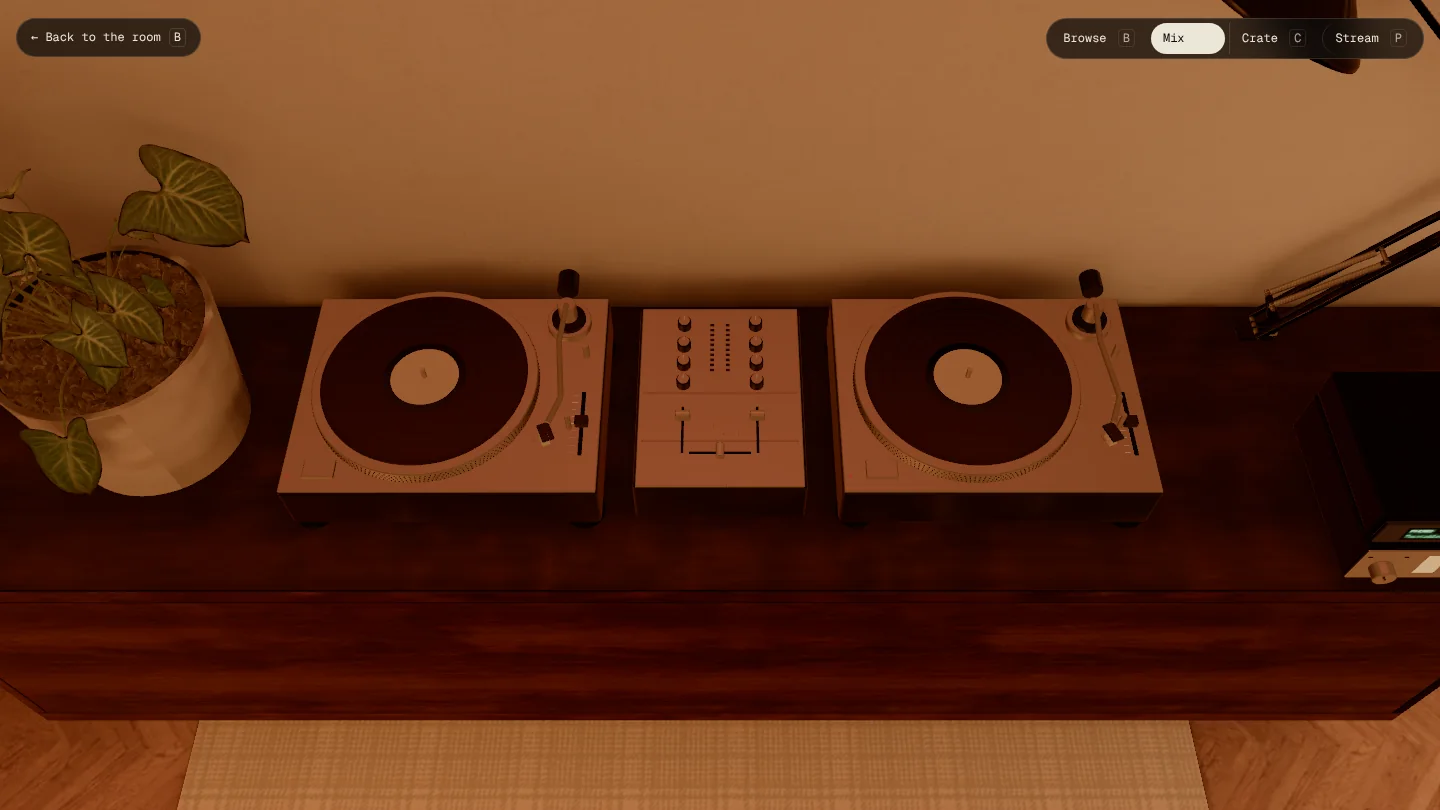
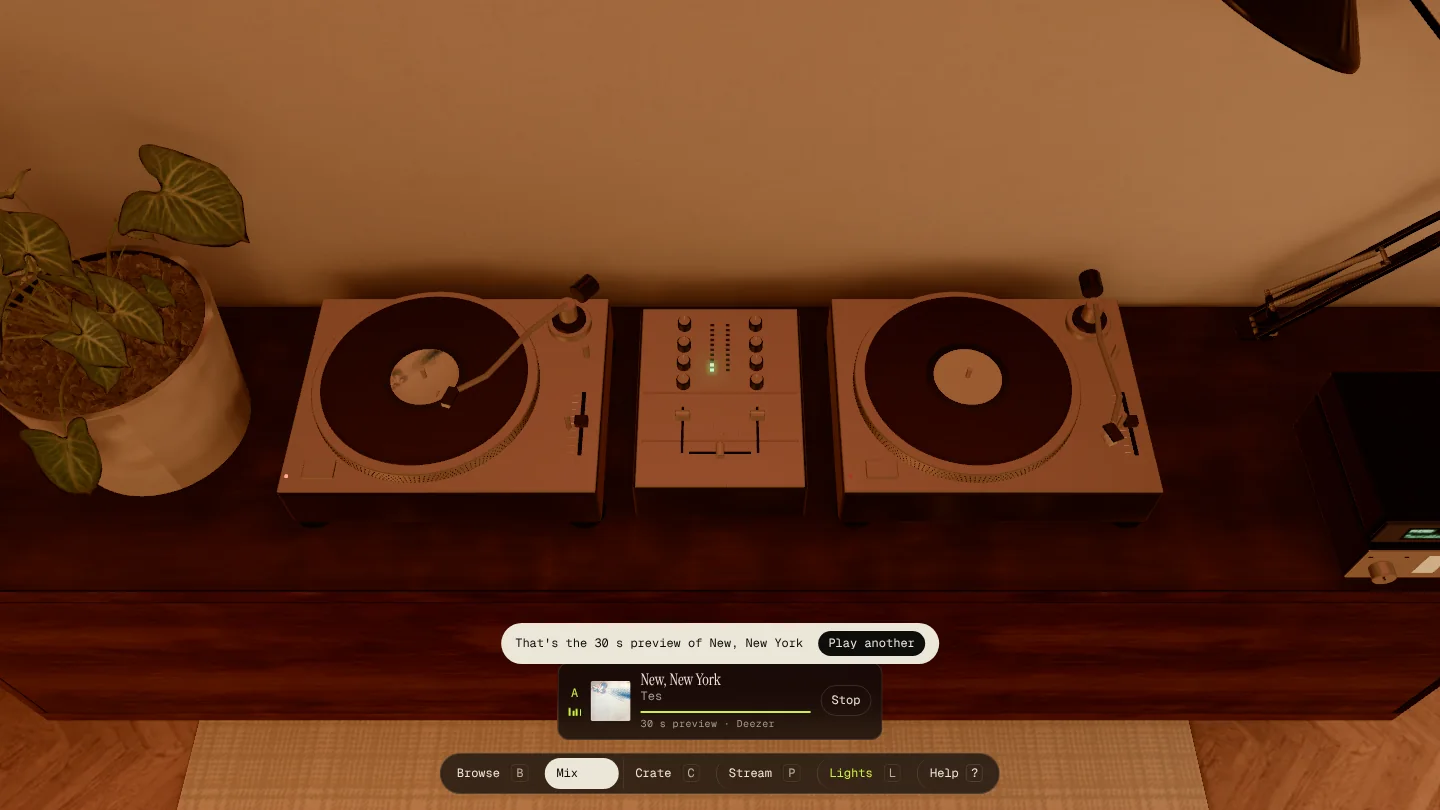
Listening Room post: screenshots with the new bottom control bar
Claude-Session: https://claude.ai/code/session_01LommHjWzrAy5NjnEbuJJz3

diff --git a/writing/listening-room.html b/writing/listening-room.html
@@ -156,7 +156,7 @@
             <figure class="post-figure">
                 <div class="grid-3">
                     <div class="tile"><img src="/images/writing/listening-room/ui-crate.webp" width="1440" height="810" alt="The crate panel open on the left, listing records from the collection with cover art, a play button to start each one straight away, and buttons to load it onto deck A or B." loading="lazy"><span class="tag">The crate</span></div>
-                    <div class="tile"><img src="/images/writing/listening-room/ui-mix.webp" width="1440" height="810" alt="Mix mode: the camera locked above the two turntables and the mixer." loading="lazy"><span class="tag">Mix mode</span></div>
+                    <div class="tile"><img src="/images/writing/listening-room/ui-mix.webp" width="1440" height="810" alt="Mix mode: the camera locked above the two turntables and the mixer, with the control bar along the bottom." loading="lazy"><span class="tag">Mix mode</span></div>
                     <div class="tile"><img src="/images/writing/listening-room/ui-streamer.webp" width="1440" height="810" alt="The Streamer panel with a list of classic SoundCloud mixes." loading="lazy"><span class="tag">The streamer</span></div>
                 </div>
                 <figcaption>Dig the crate, mix on the decks, or put on a classic mix and leave it running.</figcaption>
@@ -345,7 +345,7 @@ vec3 mixLightmaps(vec2 uv) {
                 <li><strong>The good stuff stays.</strong> Lamps, record sheets and the streamer all work, and so do the decks and scratching. Mix mode just tells you it's best on a big screen, "but go on, have a go".</li>
             </ul>
             <figure class="post-figure">
-                <img src="/images/writing/listening-room/phone-views.webp" width="1600" height="490" alt="Five phone screenshots in landscape (the chair, the decks, the records, the window and the art, each with a viewpoint switcher at the bottom left) and one in portrait, laid out tall." loading="lazy">
+                <img src="/images/writing/listening-room/phone-views.webp" width="1600" height="490" alt="Five phone screenshots in landscape (the chair, the decks, the records, the window and the art, with the viewpoint switcher folded into one control bar along the bottom) and one in portrait, laid out tall." loading="lazy">
                 <figcaption>The phone showroom: five framed viewpoints, switched with ‹ ›, either way up. Drag still looks around.</figcaption>
             </figure>
             <p>It's the same call I'd make at work: don't port the whole product to every screen. Work out what each screen is for.</p>
